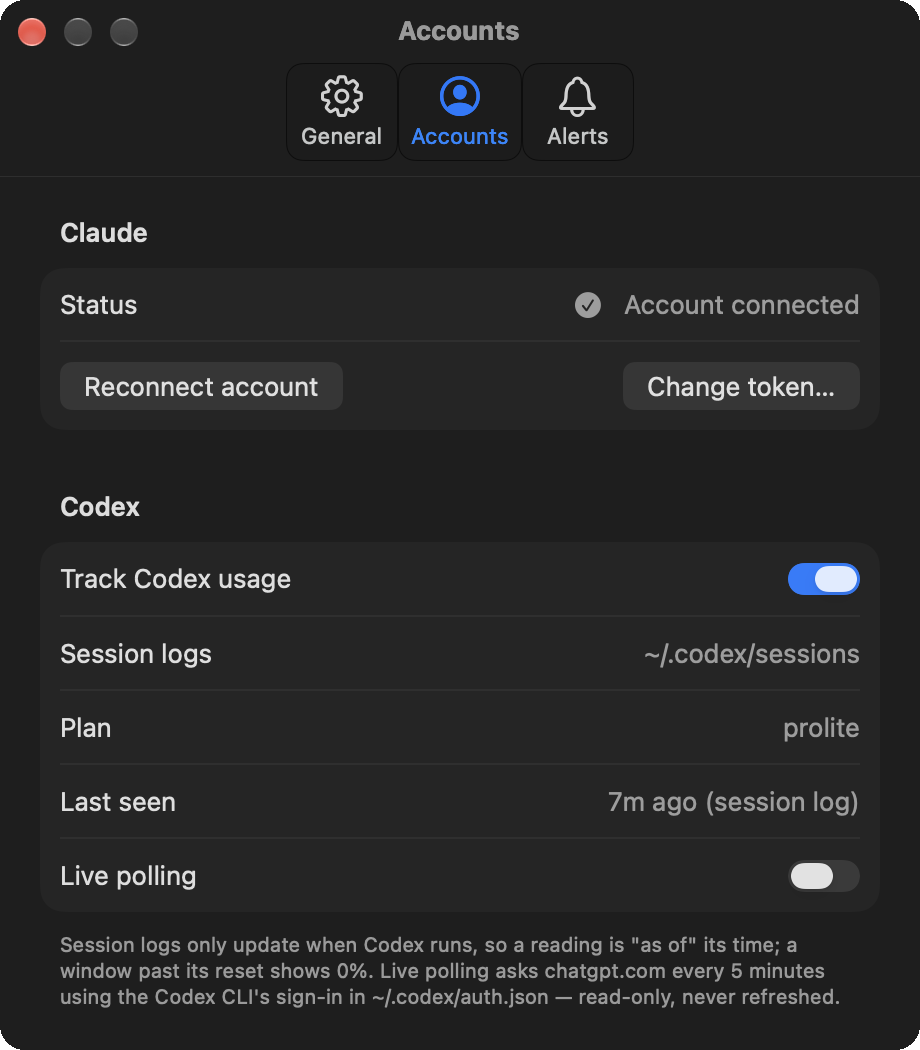
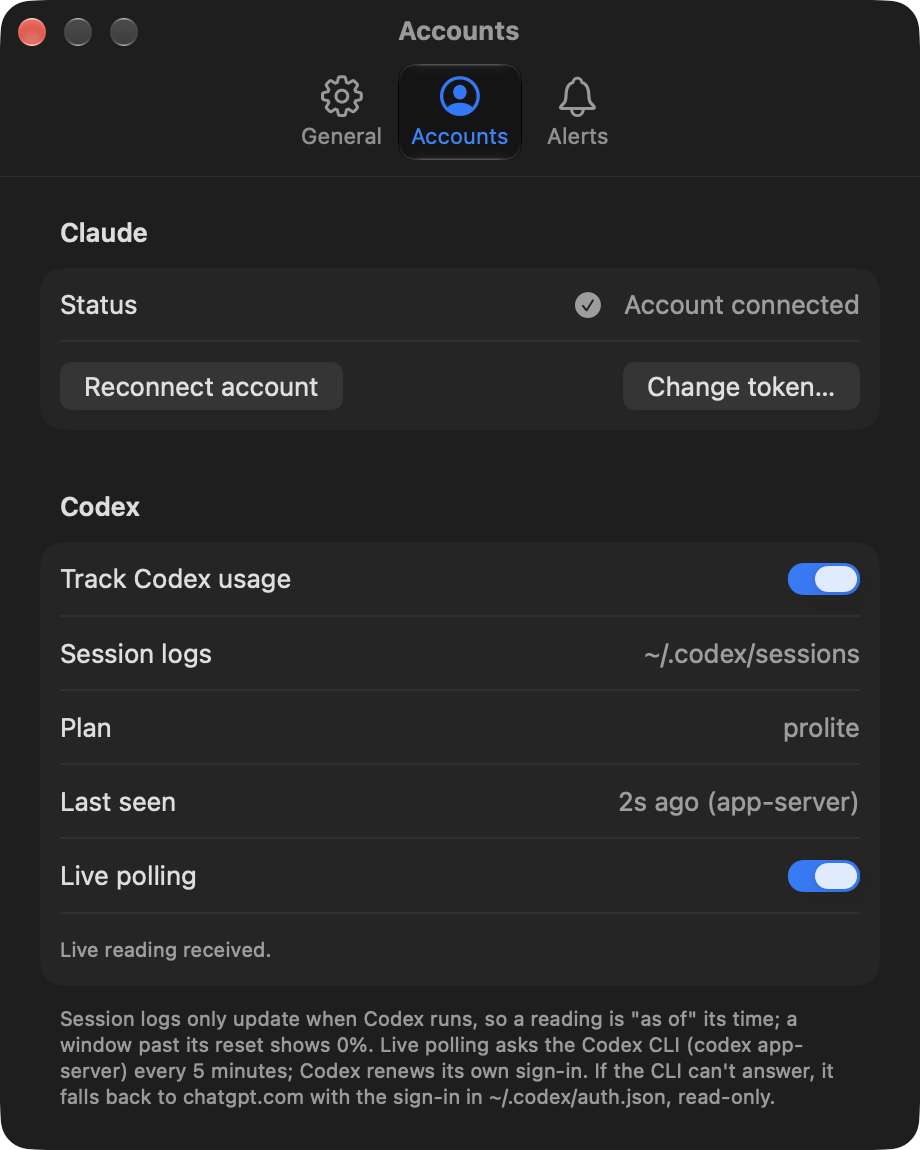
docs: Settings Accounts screenshots with app-server live polling

diff --git a/README.md b/README.md
@@ -205,8 +205,8 @@ windows; the gauge needle always shows the absolute level.
 </picture>
 &nbsp;
 <picture>
-  <source media="(prefers-color-scheme: dark)" srcset="docs/screenshots/settings-accounts-dark.png?v=0.14.2">
-  <img alt="Settings — Accounts tab" src="docs/screenshots/settings-accounts-light.png?v=0.14.2" width="460">
+  <source media="(prefers-color-scheme: dark)" srcset="docs/screenshots/settings-accounts-dark.png?v=0.17.0">
+  <img alt="Settings — Accounts tab" src="docs/screenshots/settings-accounts-light.png?v=0.17.0" width="460">
 </picture>
 &nbsp;
 <picture>
